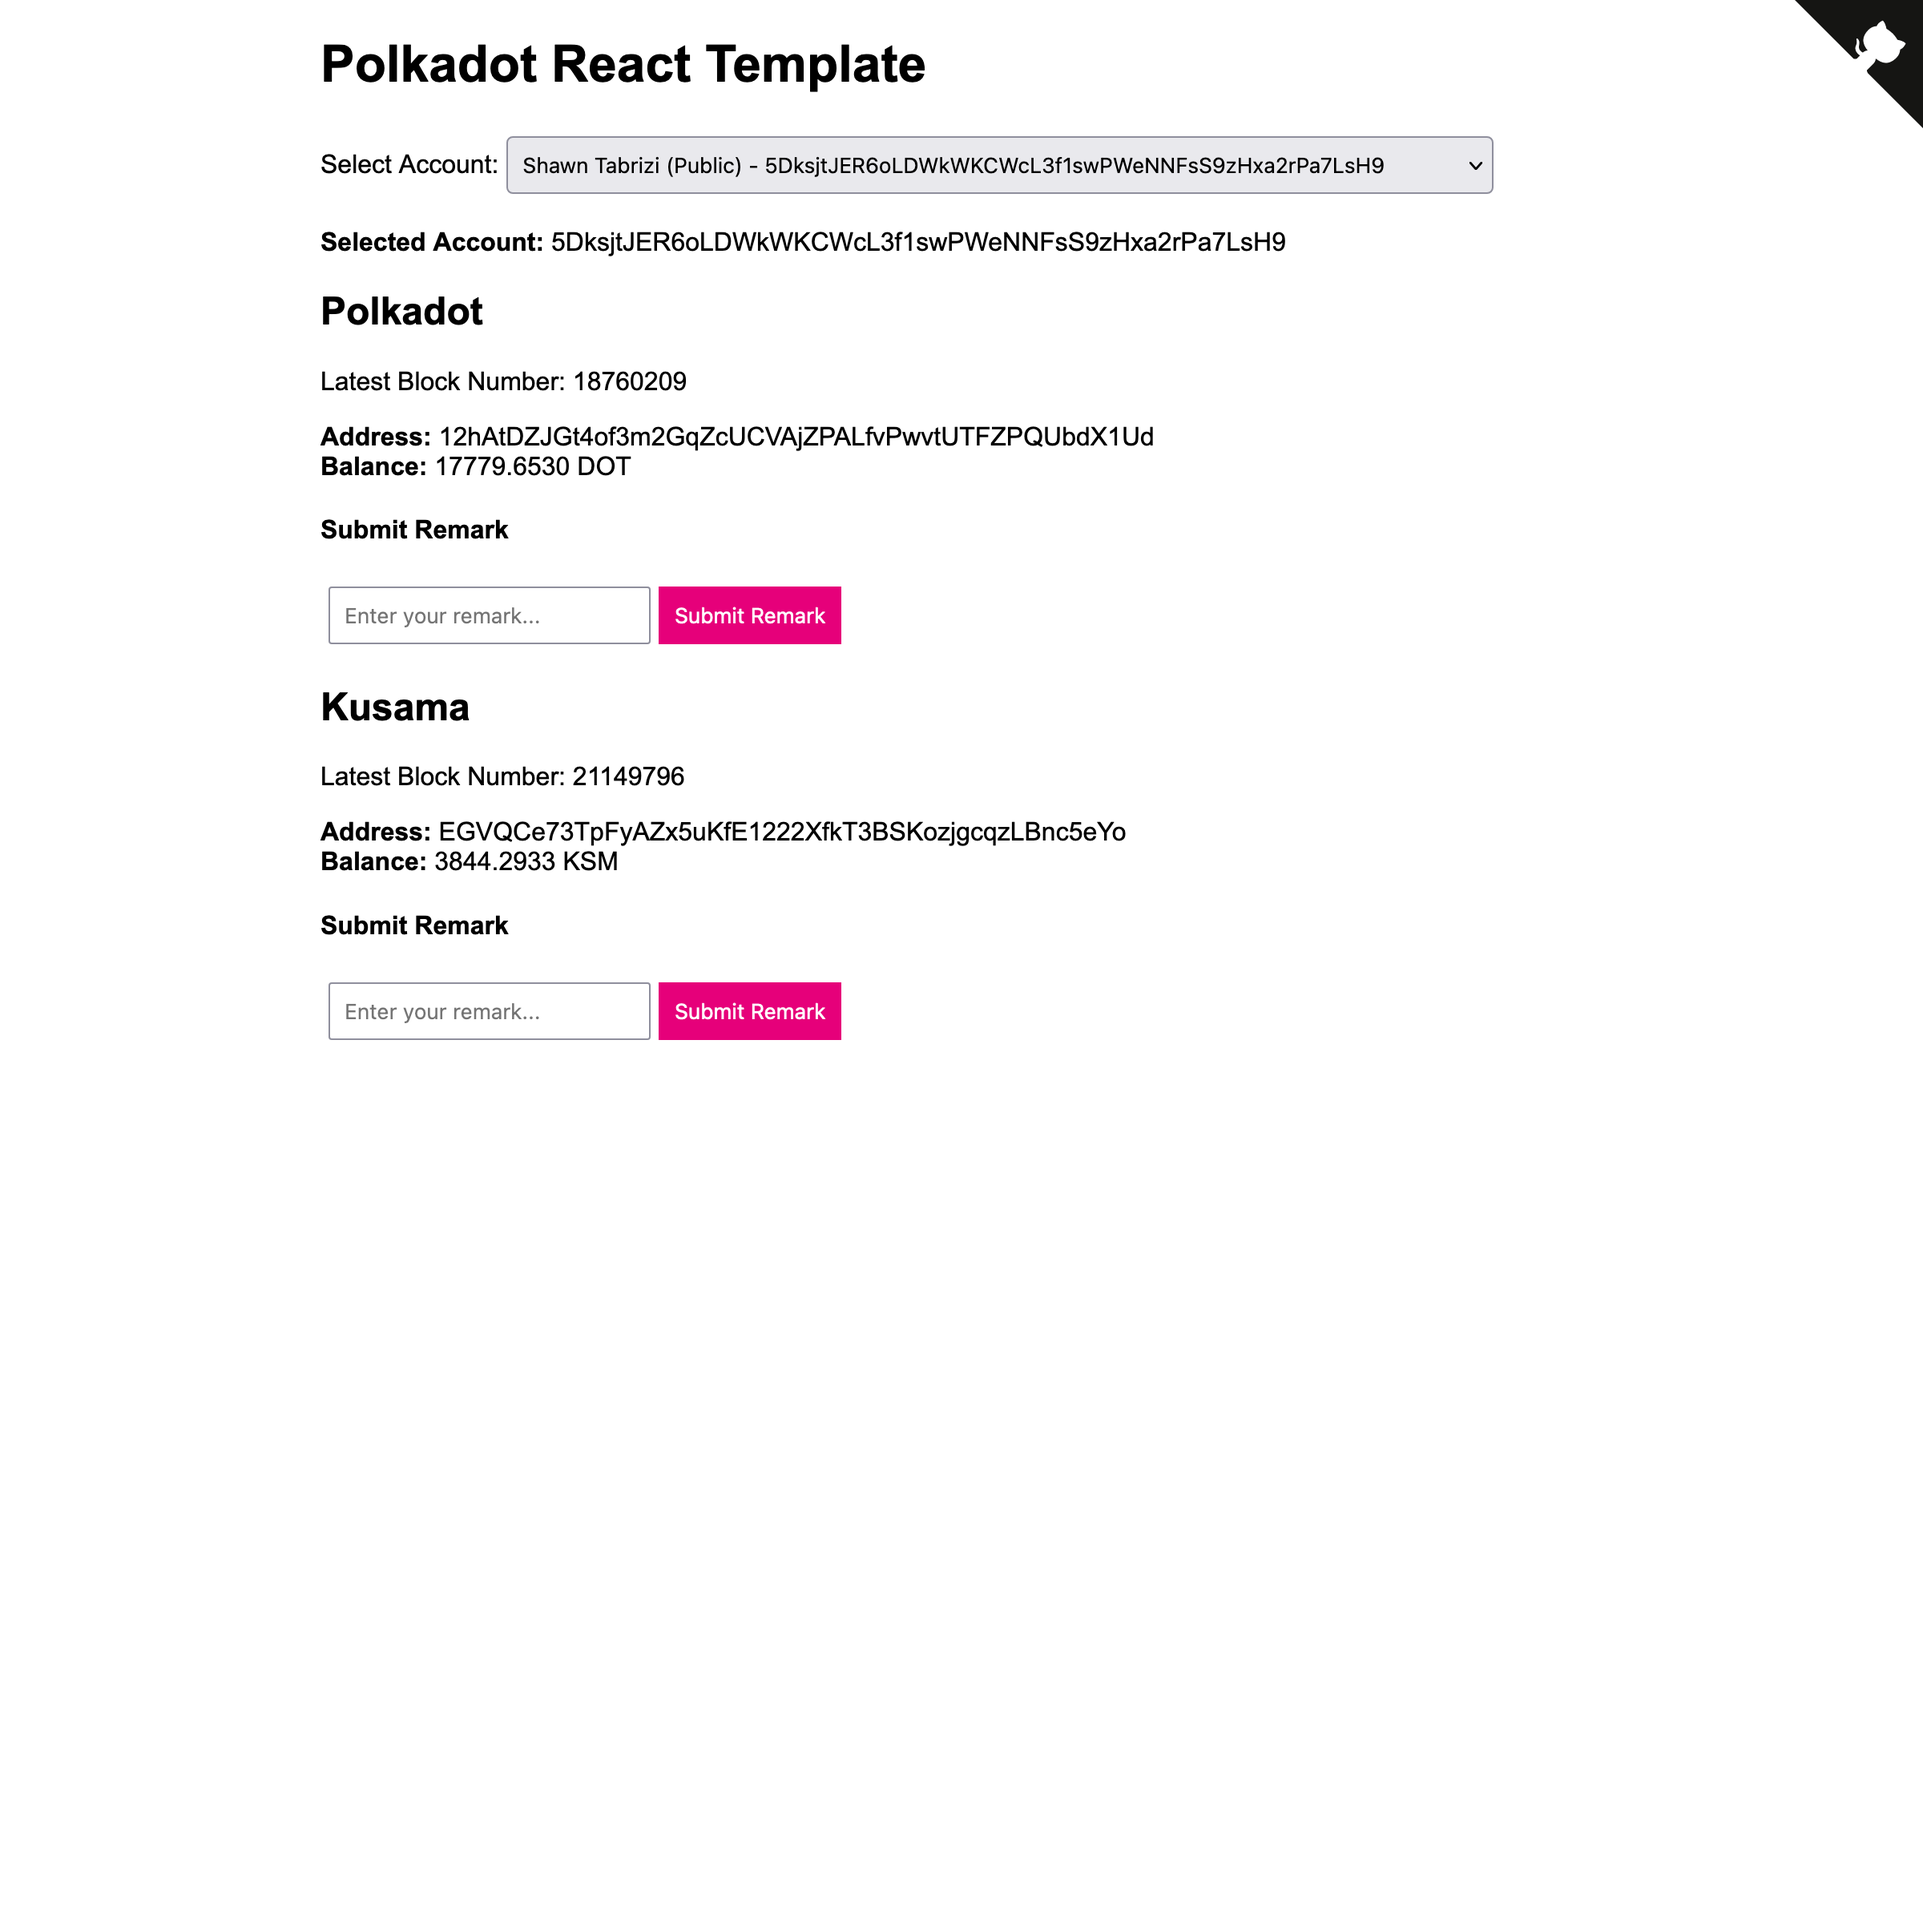
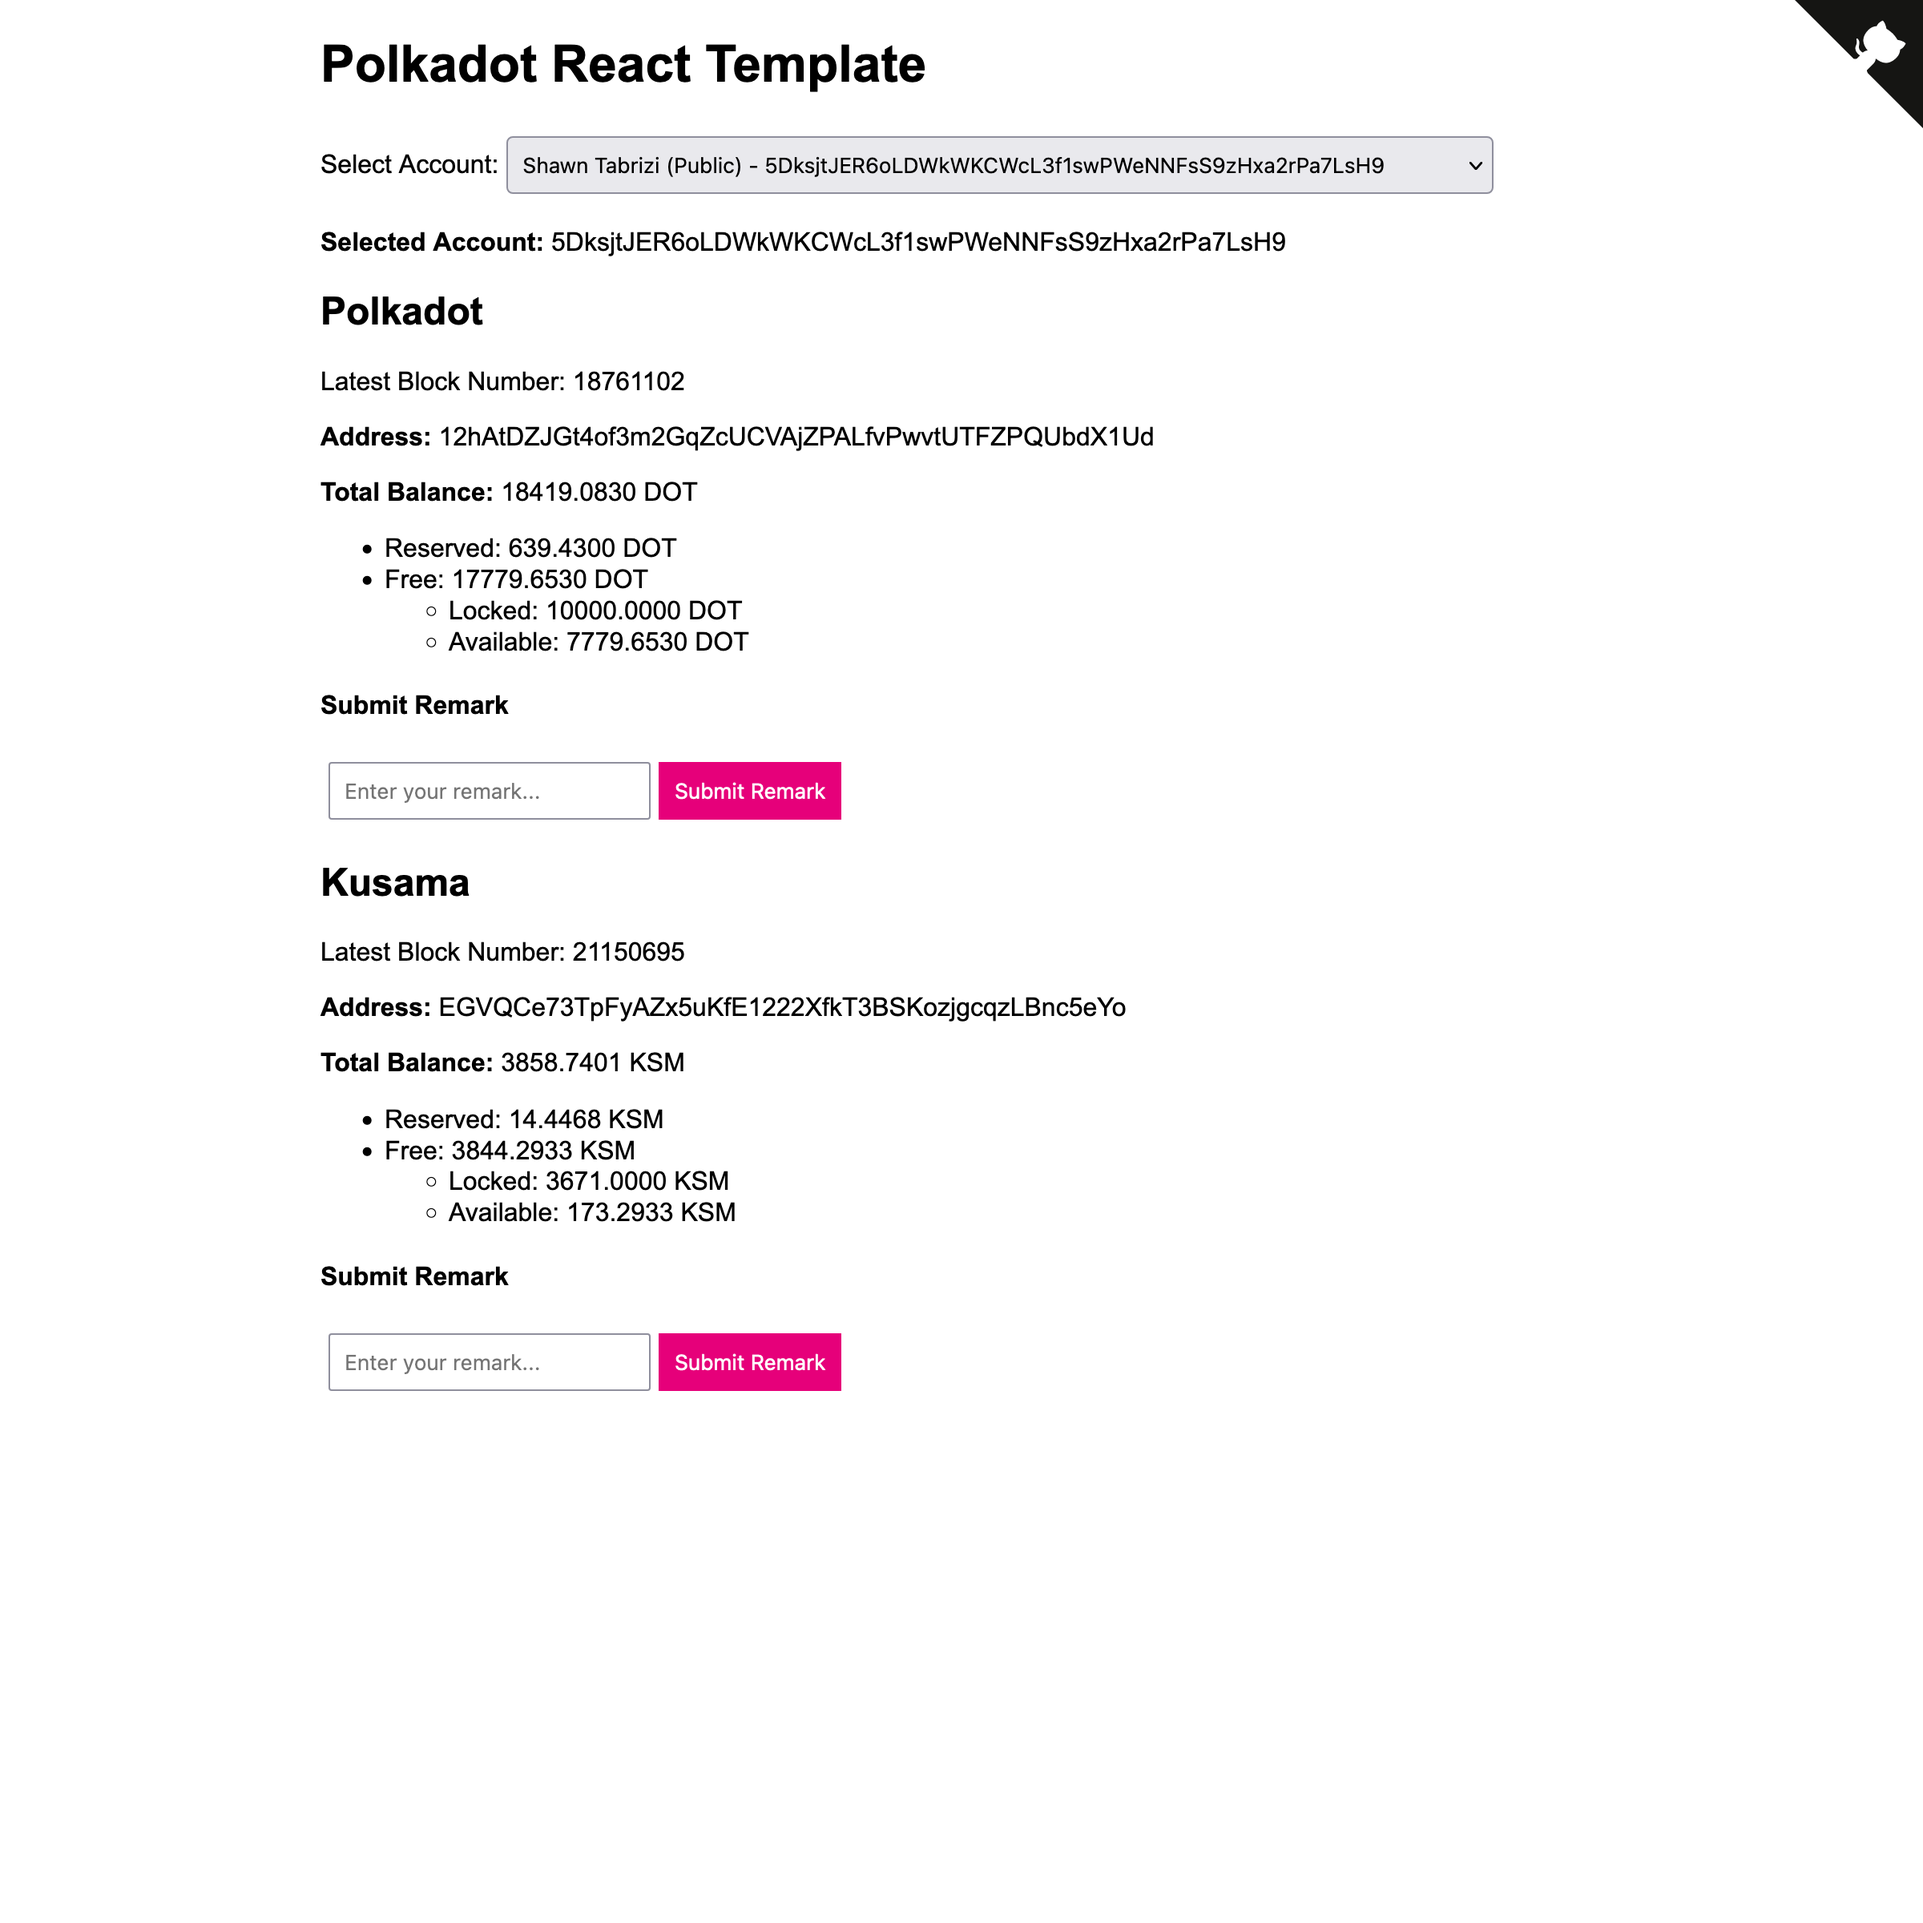
more balance details

diff --git a/src/AccountBalance.js b/src/AccountBalance.js
@@ -5,7 +5,7 @@ import { useAccount } from './AccountContext';
 const AccountBalance = () => {
   const { api } = useSubstrate();
   const { selectedAccount } = useAccount();
-  const [balance, setBalance] = useState(null);
+  const [balances, setBalances] = useState(null);
   const [tokenInfo, setTokenInfo] = useState({ name: 'UNITS', decimals: 12 });
 
   useEffect(() => {
@@ -23,33 +23,41 @@ const AccountBalance = () => {
       }
     };
 
-    const fetchBalance = async () => {
+    const fetchBalances = async () => {
       try {
         if (api && selectedAccount) {
           const { address } = selectedAccount;
           // Subscribe to balance changes
-          const unsubscribe = await api.query.system.account(
+          const unsubscribe = await api.derive.balances.all(
             address,
-            ({ data: { free } }) => {
-              setBalance(free.toString());
+            (result) => {
+              setBalances(result);
             }
           );
 
           return () => unsubscribe();
         }
       } catch (error) {
-        console.error('Error fetching account balance:', error);
+        console.error('Error fetching account balances:', error);
       }
     };
 
     fetchTokenInfo();
-    fetchBalance();
+    fetchBalances();
   }, [api, selectedAccount]);
 
-  // Format the balance with correct decimal places
-  const formattedBalance =
-    balance !== null
-      ? (parseFloat(balance) / 10 ** tokenInfo.decimals).toFixed(4)
+  // Calculate the total balance
+  const calculateTotalBalance = () => {
+    if (balances) {
+      const { freeBalance, reservedBalance } = balances;
+      return freeBalance.add(reservedBalance);
+    }
+    return null;
+  };
+
+  const formattedBalance = (value) =>
+    value !== null
+      ? (parseFloat(value) / 10 ** tokenInfo.decimals).toFixed(4)
       : 'Loading Balance...';
 
   const formattedAddress = () => {
@@ -65,11 +73,34 @@ const AccountBalance = () => {
   return (
     <div>
       {selectedAccount ? (
-        <p>
-          <strong>Address:</strong> {formattedAddress()}
-          <br />
-          <strong>Balance:</strong> {formattedBalance} {tokenInfo.name}
-        </p>
+        <div>
+          <p>
+            <strong>Address:</strong> {formattedAddress()}
+          </p>
+          <div>
+            <strong>Total Balance:</strong>{' '}
+            {formattedBalance(calculateTotalBalance())} {tokenInfo.name}
+            <ul>
+              <li>
+                Reserved: {formattedBalance(balances?.reservedBalance)}{' '}
+                {tokenInfo.name}
+              </li>
+              <li>
+                Free: {formattedBalance(balances?.freeBalance)} {tokenInfo.name}
+              </li>
+              <ul>
+                <li>
+                  Locked: {formattedBalance(balances?.lockedBalance)}{' '}
+                  {tokenInfo.name}
+                </li>
+                <li>
+                  Available: {formattedBalance(balances?.availableBalance)}{' '}
+                  {tokenInfo.name}
+                </li>
+              </ul>
+            </ul>
+          </div>
+        </div>
       ) : (
         <p>No account selected.</p>
       )}
